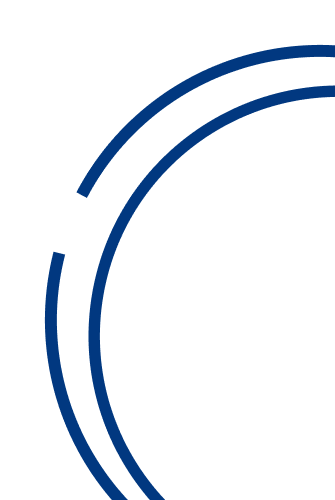
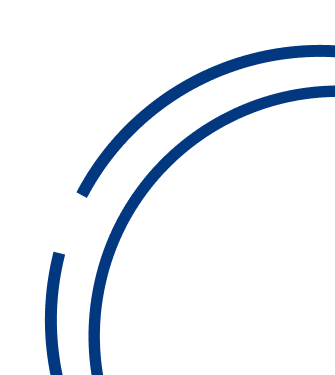
update index.html

Changed region(s): [[0.1194, 0.088, 1.0, 1.0]]

diff --git a/assets/css/dashforge.css b/assets/css/dashforge.css
@@ -2613,6 +2613,14 @@ textarea.form-control {
   transform: translateX(-50%);
 }
 
+.horizontal-right {
+  margin: 0;
+  position: absolute;
+  left: 100%;
+  -ms-transform: translateX(-100%);
+  transform: translateX(-100%);
+}
+
 .btn, .ui-datepicker-buttonpane button, .sp-container button {
   display: inline-block;
   font-weight: 400;
@@ -9996,6 +10004,11 @@ textarea.form-control {
   .link-03:hover, .link-03:focus {
     color: #1b2e4b; }
 
+.vector-footer {
+  background-image: url('assets/img/landing-footer-vector.png');
+  background-repeat: no-repeat;
+  background-position: bottom right; }
+
 .hover-primary:hover, .hover-primary:focus {
   color: #0168fa; }
 
@@ -12706,18 +12719,18 @@ textarea.parsley-success:focus {
     margin-left: 15px;
     display: flex;
     align-items: center;
-    color: #0168fa;
-    font-size: 11px;
+    color: #013880;
+    font-size: 14px;
     font-weight: 600;
-    text-transform: uppercase; }
+    /* text-transform: uppercase; } */}
     @media (min-width: 992px) {
       .navbar-header .btn-buy {
         min-height: inherit;
         padding: 7px 12px;
-        color: #0168fa;
-        border: 2px solid #0168fa; }
+        color: #013880;
+        /* border: 2px solid #0168fa; } */}
         .navbar-header .btn-buy:hover, .navbar-header .btn-buy:focus {
-          background-color: #0168fa;
+          background-color: #013880;
           color: #fff; } }
     .navbar-header .btn-buy .feather {
       width: 18px;

diff --git a/index.html b/index.html
@@ -57,7 +57,7 @@
         </div><!-- navbar-menu-header -->
       </div><!-- navbar-menu-wrapper -->
       <div class="navbar-right">
-        <a href="https://themeforest.net/item/azia-responsive-bootstrap-4-dashboard-template/22983790" class="btn btn-buy"><i data-feather="log-in"></i> <span>Masuk</span></a>
+        <a href="https://themeforest.net/item/azia-responsive-bootstrap-4-dashboard-template/22983790" class="btn btn-buy tx-semibold"><i data-feather="log-in"></i> <span>Masuk</span></a>
       </div><!-- navbar-right -->
     </header><!-- navbar -->
 
@@ -183,6 +183,14 @@
     <div class="wd-100p">
       <h3 style="margin-top: 100px; margin-bottom: 20px;" class="tx-26 tx-center tx-semibold tx-color-01 mg-b-5">Temukan relasi, kolega, dan teman di myITS Connect.</span></h3>
       <button class="btn btn-brand-02 btn-block horizontal-center tx-semibold" style="max-width: 193px; margin-bottom: 100px;">Bergabung Sekarang</button>
+      <!-- <div class="vector-footer"></div> -->
+      <style>
+      body {
+        background-image: url('assets/img/landing-footer-vector.png');
+        background-repeat: no-repeat;
+        background-position: bottom right;
+      }
+      </style>
     </div>
   </div>
   </div>
